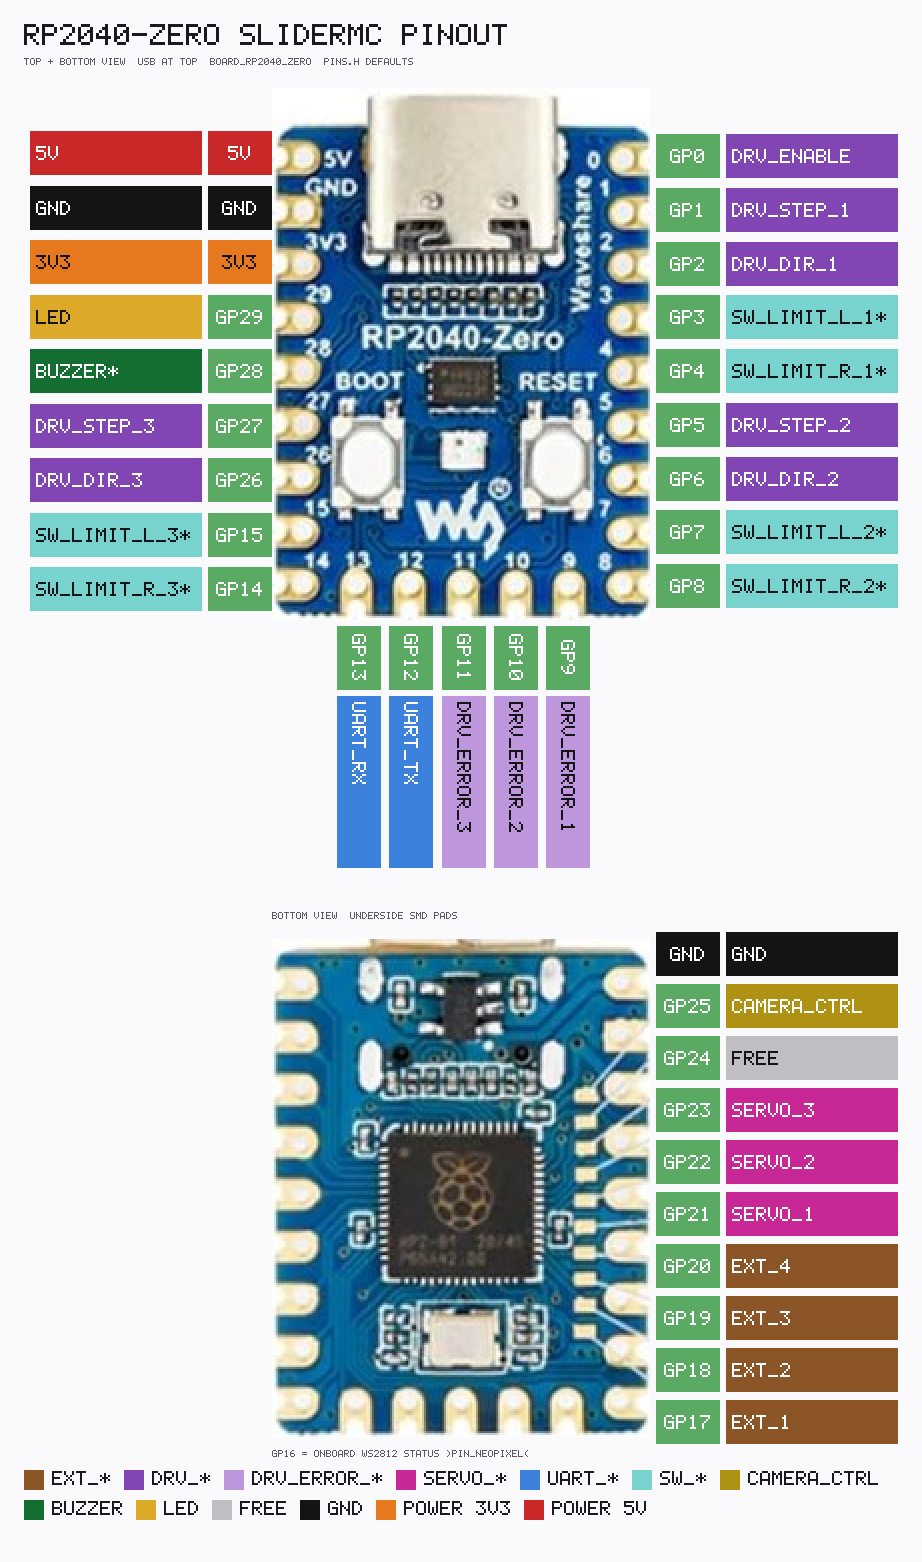
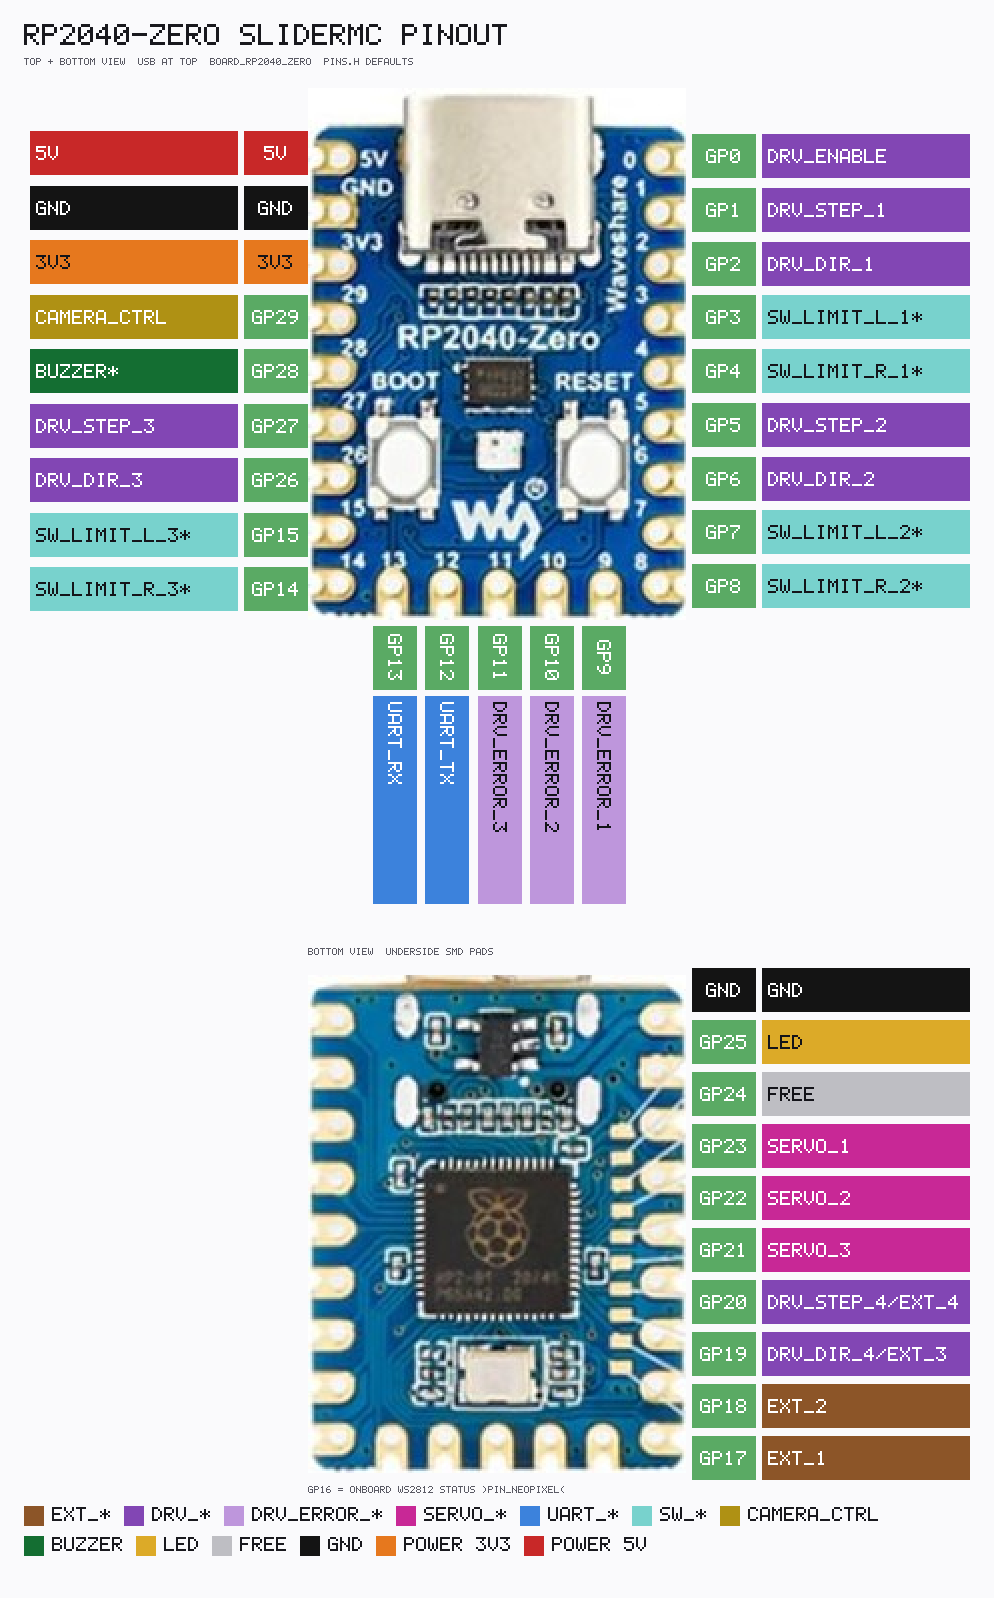
Remap the RP2040-Zero SliderMC pinout so ASCII and PNG match the current pins.h.

diff --git a/tools/render_rp2040zero_pinout_SliderMC.py b/tools/render_rp2040zero_pinout_SliderMC.py
@@ -73,7 +73,7 @@ LEFT = [
     ("5V", "5V"),
     ("GND", "GND"),
     ("3V3", "3V3"),
-    ("GP29", "LED"),
+    ("GP29", "CAMERA_CTRL"),
     ("GP28", "BUZZER*"),
     ("GP27", "DRV_STEP_3"),
     ("GP26", "DRV_DIR_3"),
@@ -106,13 +106,13 @@ BOTTOM = [
 # Bottom view SMD pads, top→bottom.
 BOT_PADS = [
     ("GND", "GND"),
-    ("GP25", "CAMERA_CTRL"),
+    ("GP25", "LED"),
     ("GP24", "free"),
-    ("GP23", "SERVO_3"),
+    ("GP23", "SERVO_1"),
     ("GP22", "SERVO_2"),
-    ("GP21", "SERVO_1"),
-    ("GP20", "EXT_4"),
-    ("GP19", "EXT_3"),
+    ("GP21", "SERVO_3"),
+    ("GP20", "DRV_STEP_4/EXT_4"),
+    ("GP19", "DRV_DIR_4/EXT_3"),
     ("GP18", "EXT_2"),
     ("GP17", "EXT_1"),
 ]
@@ -290,17 +290,17 @@ def _layout(mode: str):
         "bottom": BOTTOM,
         "bot_pads": BOT_PADS,
         "legend": LEGEND,
-        "fun_w": _FUN_W,
+        "fun_w": 208,
         "ascii_head": (
             "Waveshare RP2040-Zero — SliderMC pinout (USB at top)",
             "Defaults in include/pins.h (BOARD_RP2040_ZERO)",
         ),
         "ascii_notes": [
             "Legend: DRV_ENABLE GP0; motor1 STEP/DIR/LIMIT GP1–4; motor2 GP5–8.",
-            "ERROR 1–3 GP9–11; motor3 STEP/DIR GP27/26, LIMIT3 GP15/14. CAMERA_CTRL GP25 (OC / T).",
-            "EXT_1…4 on GP17–20 (EO1…EO4); UART 115200 baud GP12/13. SERVO_1..3 GP21–23 (underside).",
-            "RP2350-Zero (env rp2350zero) reuses this map. CS motors 2|3 / CS servos (no RB). GP29 GPIO LED; GP16 onboard WS2812 status.",
-            "SW_LIMIT_*_N off until CS …_use=1. Pin names match IG / VG.",
+            "ERROR 1–3 GP9–11; UART 115200 baud GP12/13; motor3 STEP/DIR GP27/26, LIMIT3 GP15/14.",
+            "SERVO_1..3 GP23/22/21 (underside). CAMERA_CTRL GP29 (OC / T). LED GP25; GP16 onboard WS2812.",
+            "EXT_1..2 GP17/18; motor4 DIR/STEP GP19/20 takes EXT_3/EXT_4. CS motors 2|3|4 / CS servos (no RB).",
+            "RP2350-Zero (env rp2350zero) reuses this map. SW_LIMIT_*_N off until CS …_use=1. Pin names match IG / VG.",
         ],
         "png_title": "RP2040-Zero SliderMC pinout",
         "png_sub": "Top + bottom view  USB at top  BOARD_RP2040_ZERO  pins.h defaults",

diff --git a/mc/pins.md b/mc/pins.md
@@ -16,7 +16,7 @@ Live dumps on the device:
 - `VG` / `VersionGPIO` — machine-readable `PIN_*=GPIO` lines
 - `IG` / `IsGPIO` — ASCII table of GP number, name, and brief description (≤80 columns)
 
-Extra-axis rows (`DRV_*2` / `SW_*2`, `DRV_*3` / `SW_*3`) appear in `IG` / `VG` **only when** that motor is live (`CS motors 2` or `3`). Servo rows appear when `servos>=1`. `PIN_CAMERA_CTRL` is always listed (`CT` pulse / OC listen).
+Extra-axis rows (`DRV_*2` / `SW_*2`, `DRV_*3` / `SW_*3`, `DRV_*4`) appear in `IG` / `VG` **only when** that motor is live (`CS motors 2`, `3`, or `4`). Servo rows appear when `servos>=1`. `PIN_CAMERA_CTRL` is always listed (`CT` pulse / OC listen).
 
 ---
 
@@ -93,7 +93,7 @@ Regenerate: `python tools/render_rp2040zero_pinout_SliderMC.py` → [`MC_RP2040z
 | `PIN_DRV_DIR_2` | 6 | Motor 2 DIR |
 | `PIN_SW_LIMIT_L_2` | 7 | Motor 2 hard limit left |
 | `PIN_SW_LIMIT_R_2` | 8 | Motor 2 hard limit right |
-| `PIN_DRV_ERROR_1` | 9 | Motor 1 fault / E-stop |
+| `PIN_DRV_ERROR_1` | 9 | Motor 1 fault / E-stop (always polled) |
 | `PIN_DRV_ERROR_2` | 10 | Motor 2 fault / E-stop |
 | `PIN_DRV_ERROR_3` | 11 | Motor 3 fault / E-stop |
 | `PIN_UART_TX` | 12 | UART TX to UIC |
@@ -103,18 +103,18 @@ Regenerate: `python tools/render_rp2040zero_pinout_SliderMC.py` → [`MC_RP2040z
 | `PIN_NEOPIXEL` | 16 | Onboard WS2812 status (JKSlider-style colours; pio1) |
 | `PIN_EXT_1` | 17 | Extender `EO1` |
 | `PIN_EXT_2` | 18 | Extender `EO2` |
-| `PIN_EXT_3` | 19 | Extender `EO3` |
-| `PIN_EXT_4` | 20 | Extender `EO4` |
-| `PIN_SERVO_1` | 21 | RC servo 1 PWM (100 Hz, wrap 65535; ~1.25′ / 0.021° per count over ±135° at 500–2500 µs) |
+| `PIN_DRV_DIR_4` / `PIN_EXT_3` | 19 | Motor 4 DIR when `motors>=4` (steals EXT_3) |
+| `PIN_DRV_STEP_4` / `PIN_EXT_4` | 20 | Motor 4 STEP when `motors>=4` (steals EXT_4) |
+| `PIN_SERVO_3` | 21 | RC servo 3 PWM |
 | `PIN_SERVO_2` | 22 | RC servo 2 PWM |
-| `PIN_SERVO_3` | 23 | RC servo 3 PWM |
-| `PIN_CAMERA_CTRL` | 25 | Camera OC sink (`CT`) / listen, low-active |
+| `PIN_SERVO_1` | 23 | RC servo 1 PWM (100 Hz, wrap 65535; ~1.25′ / 0.021° per count over ±135° at 500–2500 µs) |
+| `PIN_LED` | 25 | External status / heartbeat LED |
 | `PIN_DRV_DIR_3` | 26 | Motor 3 DIR |
 | `PIN_DRV_STEP_3` | 27 | Motor 3 STEP (polarity follows motor 2) |
 | `PIN_BUZZER` | 28 | Optional piezo (`BE`; `BUZZER_use`) |
-| `PIN_LED` | 29 | External status / heartbeat LED |
+| `PIN_CAMERA_CTRL` | 29 | Camera OC sink (`CT`) / listen, low-active |
 
-`motors` 1\|2\|3 and `servos` 0..3 are supported on Zero / Mini.
+`motors` 1\|2\|3\|4 and `servos` 0..3 are supported on Zero / RP2350-Zero.
 
 ---
 
@@ -130,7 +130,7 @@ Optional **buzzer** is gated by `BUZZER_use` (default off); `BE [<ms>]` pulses `
 
 ### `PIN_CAMERA_CTRL` (low-active open-collector)
 
-The UIC camera pad is unused (Pico GP22 / Zero GP29 stay **free** on JKS and B4S pinouts). Camera is **MC-only**: Pico **GP22** / Zero **GP25**. Rest = `INPUT_PULLUP` (released). `CT` / `CT [ms]` sinks **LOW** (pad **12 mA**), then releases. Bare `CT` is 100 ms (clamp 1..60000).
+The UIC camera pad is unused (Pico GP22 / Zero GP29 stay **free** on JKS and B4S pinouts). Camera is **MC-only**: Pico **GP22** / Zero **GP29**. Rest = `INPUT_PULLUP` (released). `CT` / `CT [ms]` sinks **LOW** (pad **12 mA**), then releases. Bare `CT` is 100 ms (clamp 1..60000).
 
 **Optocoupler (camera remote):** 4-pin e.g. PC817. Drive the IR LED at **≈ 5 mA**. The LED is high-side (inverted vs a sourcing UIC GPIO):
 
@@ -158,7 +158,7 @@ The phototransistor stays **floating vs the Pico** unless that remote is designe
                     S -------- D ------+---- camera logic in
                     |
             PIN_CAMERA_CTRL
-            (Pico GP22 / Zero GP25)
+            (Pico GP22 / Zero GP29)
 
   Pico GND -------------------------------- camera GND
 ```
@@ -180,7 +180,7 @@ Some no-name 2N7000 clones swap S/D — if it does not shift, check the marking 
 
 **External key (momentary only):** non-latching switch from this pin to **GND** (never to 3.3 V, never a toggle that stays down). Falling edge: MC listen → one-shot status **`T`**. A UIC can map that to **stop-motion (MSM)** or **start an A/B move**. If the opto is fitted on the same node, the key also fires the shutter (usual remote). `CT` pulls the same pin: a UIC that treats every `T` as “key” will also see command triggers (duration `T` while `CT` is down when verbose is on). Verbose off → no `#T` push; `#` while low still `#T`.
 
-`PIN_EXT_1`…`4` default to **input + pull-up** (`ED n I`). `ED n O` is push-pull; `ED n T` is open-collector + pull-up. Logical `EO1`…`EO4` set output level when mode is O or T. `EI0`…`EI3` read the pin in any mode. Polarity via `EXT_1_active`…`EXT_4_active`. On Pico, **GP18 is SERVO_3 when `servos>=3`** (EXT_4 stolen). **`EO5`… is rejected.**
+`PIN_EXT_1`…`4` default to **input + pull-up** (`ED n I`). `ED n O` is push-pull; `ED n T` is open-collector + pull-up. Logical `EO1`…`EO4` set output level when mode is O or T. `EI0`…`EI3` read the pin in any mode. Polarity via `EXT_1_active`…`EXT_4_active`. On Pico, **GP18 is SERVO_3 when `servos>=3`** (EXT_4 stolen). On Zero, **GP19/GP20 are motor 4 DIR/STEP when `motors>=4`** (EXT_3/EXT_4 stolen). **`EO5`… is rejected.**
 
 STEP polarity (`DRV_STEP_1_active` / `DRV_STEP_2_active`) selects one of two PIO programs. Motor 3 STEP follows motor 2 (no `DRV_STEP_3_active`). See [MOTION.md](MOTION.md).
 

diff --git a/components/camera.md b/components/camera.md
@@ -10,7 +10,7 @@
 
 [← Components index](index.md)
 
-Shutter / intervalometer for timelapse. On the **split stack**, camera is **SliderMC** `PIN_CAMERA_CTRL` / `CT` (Pico **GP22** / Zero **GP25**). UIC `PIN_CTRL_CAMERA` is **None** — do not wire a shutter on the panel Pico. JKSlider Pico GP22 is free; B4Slider Pico GP22 is **AXIS_6**. Zero JKS GP29 is **JOYSTICK_2**. Overview: [ARCHITECTURE.md](../architecture/overview.md) · MC wiring: [pins.md — PIN_CAMERA_CTRL](../mc/pins.md#pin_camera_ctrl-low-active-open-collector).
+Shutter / intervalometer for timelapse. On the **split stack**, camera is **SliderMC** `PIN_CAMERA_CTRL` / `CT` (Pico **GP22** / Zero **GP29**). UIC `PIN_CTRL_CAMERA` is **None** — do not wire a shutter on the panel Pico. JKSlider Pico GP22 is free; B4Slider Pico GP22 is **AXIS_6**. Zero JKS GP29 is **JOYSTICK_2**. Overview: [ARCHITECTURE.md](../architecture/overview.md) · MC wiring: [pins.md — PIN_CAMERA_CTRL](../mc/pins.md#pin_camera_ctrl-low-active-open-collector).
 
 ## SliderMC (`PIN_CAMERA_CTRL`)
 

diff --git a/architecture/overview.md b/architecture/overview.md
@@ -235,6 +235,6 @@ Details: [protocol.md](../contract/protocol.md). UIC API: [overview.md](../uic/a
 
 ## Camera pin
 
-Shutter on the split stack is SliderMC `PIN_CAMERA_CTRL` / `CT` (Pico **GP22** / Zero **GP25**). UIC `PIN_CTRL_CAMERA` is **None** — do not wire a shutter on the panel Pico. JKSlider MSM sends `mc.cameraTrigger` / `CT`. `PIN_DRV_ERROR_1` is Pico **GP12** / Zero **GP9**. Pico GP21 is `EXT_1`; Zero GP21 is `SERVO_1`.
+Shutter on the split stack is SliderMC `PIN_CAMERA_CTRL` / `CT` (Pico **GP22** / Zero **GP29**). UIC `PIN_CTRL_CAMERA` is **None** — do not wire a shutter on the panel Pico. JKSlider MSM sends `mc.cameraTrigger` / `CT`. `PIN_DRV_ERROR_1` is Pico **GP12** / Zero **GP9**. Pico GP21 is `EXT_1`; Zero GP21 is `SERVO_3`.
 
 With **DF_DMC_2_MC**, Dragonframe camera shutter can also pulse **DMC GP9** (OC + optional 2N7000 to 5 V) and still send MC `CT`. Wiring: [DF_DMC_2_MC pins](https://github.com/fablab-wue/DF_DMC_2_MC/blob/main/docs/pins.md#camera-gp9--2n7000-level-shifter-5-v-and-gpio-protection).

diff --git a/uic/api/overview.md b/uic/api/overview.md
@@ -640,7 +640,7 @@ Copy [`SliderPins.example.py`](https://github.com/fablab-wue/SliderCtrl/blob/mai
 | Signal | Board | Purpose |
 |--------|-------|---------|
 | UART TX/RX | UIC + MC | 115200 baud. Pico GP16/17. Zero GP12/13. Cross TX to RX. |
-| `CTRL_CAMERA` | MC | Shutter via `CT`. UIC `PIN_CTRL_CAMERA` is None. Pico GP22 / Zero GP25. |
+| `CTRL_CAMERA` | MC | Shutter via `CT`. UIC `PIN_CTRL_CAMERA` is None. Pico GP22 / Zero GP29. |
 | `LED_R` / `LED_G` / `LED_B` | UIC | RGB status (Pico GP2/3/4) |
 | `NEOPIXEL` | UIC | Optional WS2812 (`PIN_NEOPIXEL`, default off) |
 | `DSP_I2C_SDA` / `DSP_I2C_SCL` | UIC | Optional OLED (Pico GP0/1) |
